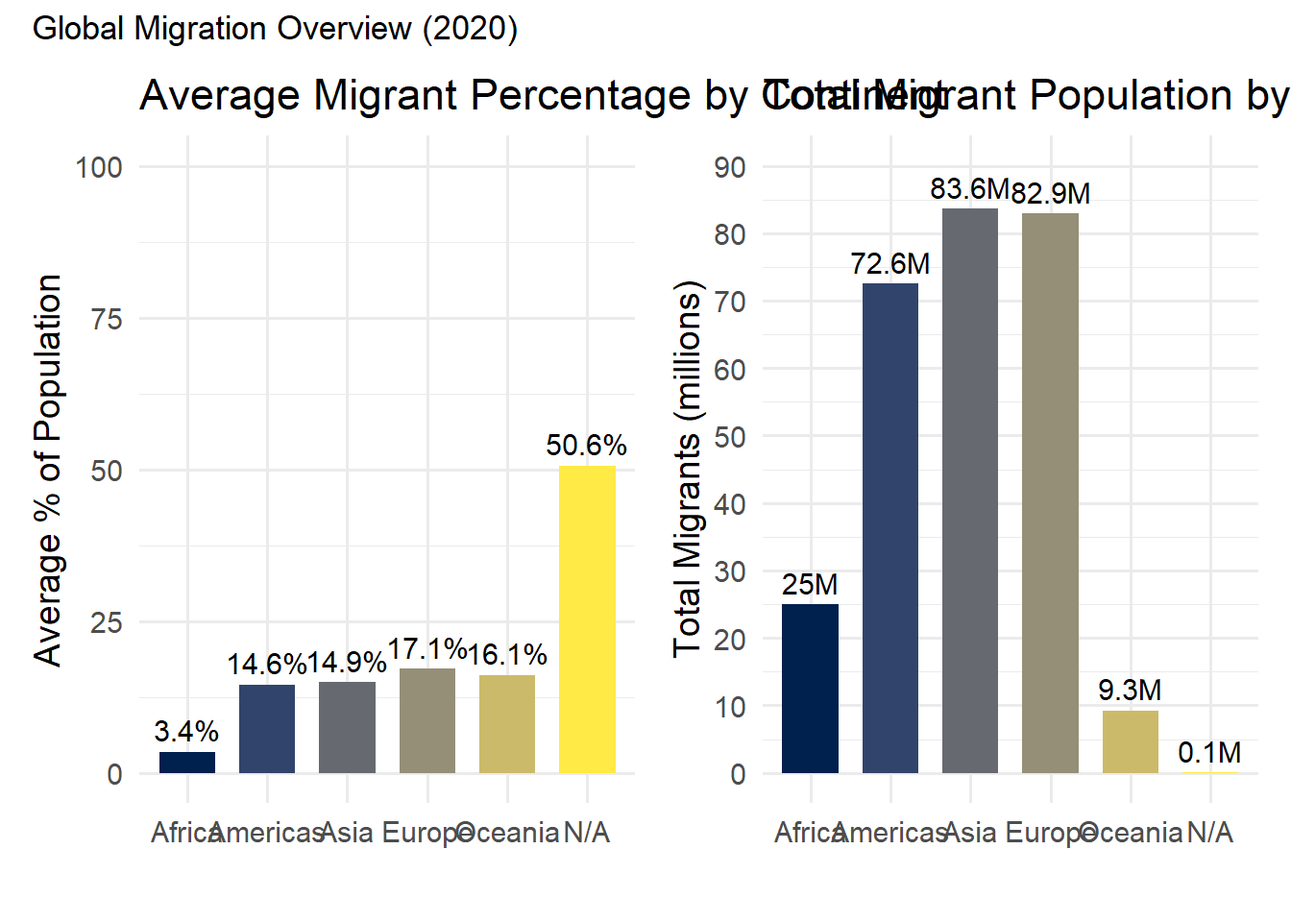
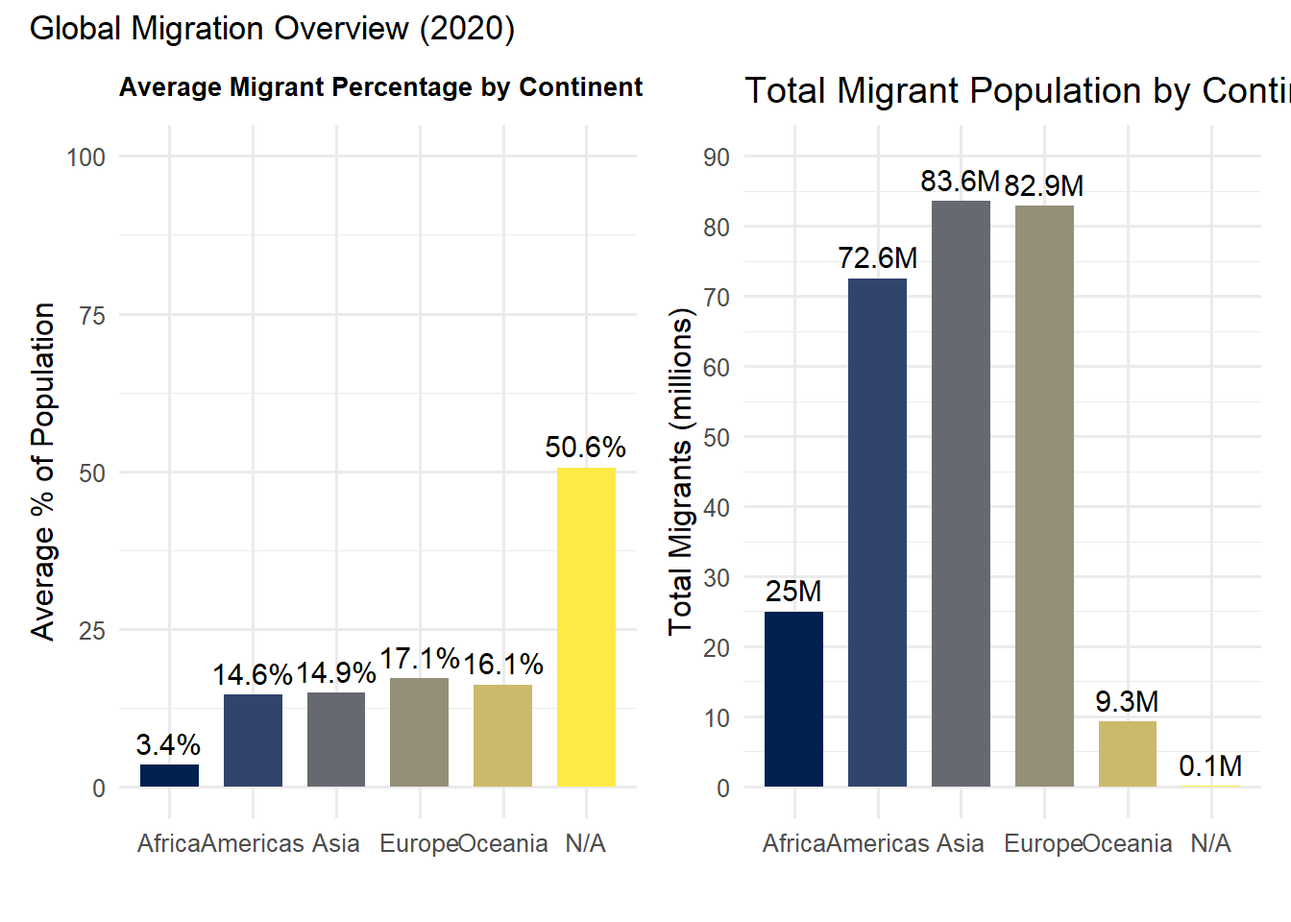
Changed formatting of some charts in assignment 4

diff --git a/October10.html b/October10.html
@@ -265,8 +265,8 @@ pre > code.sourceCode > span > a:first-child::before { text-decoration: underlin
 <p><strong>Chart 2 - Table with Embedded Charts</strong></p>
 <div class="cell">
 <div class="cell-output-display">
-<div class="datatables html-widget html-fill-item" id="htmlwidget-a9f10cb948549b26c1bb" style="width:100%;height:auto;"></div>
-<script type="application/json" data-for="htmlwidget-a9f10cb948549b26c1bb">{"x":{"filter":"none","vertical":false,"caption":"<caption>Table 1 — Migrant Population by Country (2020)<\/caption>","data":[["1","2","3","4","5","6","7","8","9","10","11","12","13","14","15","16","17","18","19","20","21","22","23","24","25","26","27","28","29","30","31","32","33","34","35","36","37","38","39","40","41","42","43","44","45","46","47","48","49","50","51","52","53","54","55","56","57","58","59","60","61","62","63","64","65","66","67","68","69","70","71","72","73","74","75","76","77","78","79","80","81","82","83","84","85","86","87","88","89","90","91","92","93","94","95","96","97","98","99","100","101","102","103","104","105","106","107","108","109","110","111","112","113","114","115","116","117","118","119","120","121","122","123","124","125","126","127","128","129","130","131","132","133","134","135","136","137","138","139","140","141","142","143","144","145","146","147","148","149","150","151","152","153","154","155","156","157","158","159","160","161","162","163","164","165","166","167","168","169","170","171","172","173","174","175","176","177","178","179","180","181","182","183","184","185","186","187","188","189","190","191","192","193","194","195","196","197","198","199","200","201","202","203","204","205","206","207","208","209","210","211","212","213","214"],["Afghanistan","Albania","Algeria","American Samoa","Andorra","Angola","Antigua and Barbuda","Argentina","Armenia","Aruba","Australia","Austria","Azerbaijan","Bahamas, The","Bahrain","Bangladesh","Barbados","Belarus","Belgium","Belize","Benin","Bermuda","Bhutan","Bolivia","Bosnia and Herzegovina","Botswana","Brazil","British Virgin Islands","Brunei Darussalam","Bulgaria","Burkina Faso","Burundi","Cabo Verde","Cambodia","Cameroon","Canada","Cayman Islands","Central African Republic","Chad","Channel Islands","Chile","China","Colombia","Comoros","Congo, Dem. Rep.","Congo, Rep.","Costa Rica","Cote d'Ivoire","Croatia","Cuba","Curacao","Cyprus","Czechia","Denmark","Djibouti","Dominica","Dominican Republic","Ecuador","Egypt, Arab Rep.","El Salvador","Equatorial Guinea","Eritrea","Estonia","Eswatini","Ethiopia","Faroe Islands","Fiji","Finland","France","French Polynesia","Gabon","Gambia, The","Georgia","Germany","Ghana","Gibraltar","Greece","Greenland","Grenada","Guam","Guatemala","Guinea","Guinea-Bissau","Guyana","Haiti","Honduras","Hong Kong SAR, China","Hungary","Iceland","India","Indonesia","Iran, Islamic Rep.","Iraq","Ireland","Isle of Man","Israel","Italy","Jamaica","Japan","Jordan","Kazakhstan","Kenya","Kiribati","Korea, Dem. People's Rep.","Korea, Rep.","Kuwait","Kyrgyz Republic","Lao PDR","Latvia","Lebanon","Lesotho","Liberia","Libya","Liechtenstein","Lithuania","Luxembourg","Macao SAR, China","Madagascar","Malawi","Malaysia","Maldives","Mali","Malta","Marshall Islands","Mauritania","Mauritius","Mexico","Micronesia, Fed. Sts.","Moldova","Monaco","Mongolia","Montenegro","Morocco","Mozambique","Myanmar","Namibia","Nauru","Nepal","Netherlands","New Caledonia","New Zealand","Nicaragua","Niger","Nigeria","North Macedonia","Northern Mariana Islands","Norway","Oman","Pakistan","Palau","Panama","Papua New Guinea","Paraguay","Peru","Philippines","Poland","Portugal","Qatar","Romania","Russian Federation","Rwanda","Samoa","San Marino","Sao Tome and Principe","Saudi Arabia","Senegal","Serbia","Seychelles","Sierra Leone","Singapore","Sint Maarten (Dutch part)","Slovak Republic","Slovenia","Solomon Islands","South Africa","South Sudan","Spain","Sri Lanka","St. Kitts and Nevis","St. Lucia","St. Martin (French part)","St. Vincent and the Grenadines","Sudan","Suriname","Sweden","Switzerland","Syrian Arab Republic","Tajikistan","Tanzania","Thailand","Timor-Leste","Togo","Tonga","Trinidad and Tobago","Tunisia","Turkiye","Turkmenistan","Turks and Caicos Islands","Tuvalu","Uganda","Ukraine","United Arab Emirates","United Kingdom","United States","Uruguay","Uzbekistan","Vanuatu","Venezuela, RB","Viet Nam","Virgin Islands (U.S.)","West Bank and Gaza","Yemen, Rep.","Zambia","Zimbabwe"],["Asia","Europe","Africa","Oceania","Europe","Africa","Americas","Americas","Asia","Americas","Oceania","Europe","Asia","Americas","Asia","Asia","Americas","Europe","Europe","Americas","Africa","Americas","Asia","Americas","Europe","Africa","Americas","Americas","Asia","Europe","Africa","Africa","Africa","Asia","Africa","Americas","Americas","Africa","Africa",null,"Americas","Asia","Americas","Africa","Africa","Africa","Americas","Africa","Europe","Americas","Americas","Asia","Europe","Europe","Africa","Americas","Americas","Americas","Africa","Americas","Africa","Africa","Europe","Africa","Africa","Europe","Oceania","Europe","Europe","Oceania","Africa","Africa","Asia","Europe","Africa","Europe","Europe","Americas","Americas","Oceania","Americas","Africa","Africa","Americas","Americas","Americas","Asia","Europe","Europe","Asia","Asia","Asia","Asia","Europe","Europe","Asia","Europe","Americas","Asia","Asia","Asia","Africa","Oceania","Asia","Asia","Asia","Asia","Asia","Europe","Asia","Africa","Africa","Africa","Europe","Europe","Europe","Asia","Africa","Africa","Asia","Asia","Africa","Europe","Oceania","Africa","Africa","Americas","Oceania","Europe","Europe","Asia","Europe","Africa","Africa","Asia","Africa","Oceania","Asia","Europe","Oceania","Oceania","Americas","Africa","Africa","Europe","Oceania","Europe","Asia","Asia","Oceania","Americas","Oceania","Americas","Americas","Asia","Europe","Europe","Asia","Europe","Europe","Africa","Oceania","Europe","Africa","Asia","Africa","Europe","Africa","Africa","Asia","Americas","Europe","Europe","Oceania","Africa","Africa","Europe","Asia","Americas","Americas","Americas","Americas","Africa","Americas","Europe","Europe","Asia","Asia","Africa","Asia","Asia","Africa","Oceania","Americas","Africa","Asia","Asia","Americas","Oceania","Africa","Europe","Asia","Europe","Americas","Americas","Asia","Oceania","Americas","Asia","Americas","Asia","Asia","Africa","Africa"],[144098,48810,250378,23608,45574,656434,29386,1912294,207139,53593,7604850,1781046,198894,63583,785983,2115408,34869,1067090,2046975,62043,394276,19739,53612,164121,36042,110268,1048866,22164,111959,184363,723989,344767,15788,79341,579209,8332892,29242,88546,547494,84087,1476240,1415116,1932807,12496,952871,387606,520729,2760255,528056,3024,57210,190366,680221,718856,119738,8284,603794,721560,602472,42767,230618,13934,199277,32858,875170,6812,14087,386052,8610719,30081,416651,215659,79368,15021300,476412,11190,1340456,5899,7213,80472,84311,121437,17945,31169,18884,39195,2962492,584567,65424,4929816,306702,2797235,365766,951686,43040,2068830,6223851,23629,3289042,4940142,1990268,1050147,3126,49549,1723389,3030731,199011,48731,239422,1586346,12060,87947,826537,25877,145184,298062,403490,35563,191362,3718696,70079,485829,114760,3298,182286,28893,1335154,2832,77291,26601,21345,70999,102358,338850,76446,109391,2201,487564,2425521,73141,1343900,42167,348056,1308568,131311,21843,852238,1766142,3276580,5088,313165,31068,169567,1184762,87212,738099,1001963,2182000,338734,7297611,513907,4021,5543,2139,13071258,274929,733091,13050,53746,2589107,28845,197161,277964,2520,2639076,882252,7146130,40254,7725,8338,null,4738,1379147,47801,2033902,2610189,868711,276031,426017,3015007,8399,279936,3742,78849,60145,6580295,194920,25748,239,1776038,4997387,7184000,10520870,50471028,108267,1162007,3257,1324193,200639,56753,272784,387113,187955,416141],[0.4,1.7,0.6,47.4,58.9,2,32,4.2,7.2,49.9,29.5,20,2,16.1,53,1.3,12.4,11.4,17.7,15.9,3,30.7,7,1.4,1.1,4.7,0.5,59.7,25,2.7,3.4,2.7,3.1,0.5,2.2,21.8,42.6,1.8,3.2,50.6,7.6,0.1,3.8,1.6,1,6.7,10.3,9.5,13.4,0,30.9,14.6,6.4,12.3,10.8,12.3,5.5,4.1,0.6,0.7,13.4,0.4,15,2.8,0.7,13,1.5,7,13.1,10.8,17.9,8.6,2.1,18,1.5,30.9,12.5,10.5,6.2,49.6,0.5,0.9,0.9,3.9,0.2,0.4,39.6,6,17.8,0.4,0.1,3.2,0.9,19.1,51.2,23.5,10.4,0.8,2.6,45.5,10.2,2,2.5,0.2,3.3,68.90000000000001,3,0.7,12.6,27.8,0.5,1.7,11.7,66.8,5.2,47.3,59.1,0.1,1,11,14,2.2,22.1,7.7,4,2.3,1.1,2.6,2.5,69.90000000000001,0.6,11.7,0.3,1.1,0.1,4,18.9,1.7,13.8,25.7,26.5,0.6,1.5,0.6,7,46,15.8,39.1,1.4,28.6,7.3,0.3,2.6,3.6,0.1,1.9,9.699999999999999,77.8,1.7,5,3.9,1.9,15.9,1,42.2,1.6,10.6,10.8,0.7,46.1,70.3,3.6,13.2,0.3,4.4,8.199999999999999,15,0.2,16.5,4.7,0,4.6,2.9,7.8,19.6,30.2,4.1,2.8,0.7,4.2,0.6,3.2,3.5,5.3,0.5,7.6,2.8,58,2.3,4,11.2,76,15.6,14.9,3.2,3.5,1.1,4.7,0.2,64.7,5.4,1.1,1,2.7],[39068979,2837849,44042091,49761,77380,33451132,91846,45191965,2961500,108587,25649248,8916864,10093121,395863,1472204,166298024,281698,9379952,11538604,390812,13070169,64382,770006,11816299,3299349,2365894,208660842,37135,447404,6550696,21478690,12617036,514679,16725474,26210558,38028638,68684,5026628,17224679,166235,19370624,1411100000,50629997,802163,95989998,5752791,5034320,28915449,3914206,11176354,154947,1302247,10697858,5831404,1105188,67573,11008300,17546065,109315124,6234673,1716468,3291271,1329522,1192729,118917671,52567,914963,5529543,67601110,279209,2322539,2515733,3722716,83160871,31887809,36173,10698599,56367,116341,162158,17357325,13371183,2013255,807481,11243848,10119640,7481000,9670419,366463,1402617695,274814866,87723443,42116605,5039747,84064,9215100,59438851,2830739,126261000,10865228,19482117,52217334,126099,26136312,51836239,4400267,6726596,7346533,1900449,5702398,2235727,5149463,7045399,38901,2810369,630419,685400,28953556,19533888,33889558,502118,21713836,515490,42706,4600131,1266014,126799054,110916,2635130,38050,3327204,626590,36584208,30783688,53016522,2728762,11643,28966574,17441500,284176,5090200,6565267,23717613,213996181,1856124,47528,5379475,4522497,235001746,17792,4293261,9815746,6603739,32838579,112081264,37515748,10297081,2794148,19265250,145245148,13065837,211944,34770,217435,31552510,16789219,6899126,98462,7912558,5685807,41008,5458827,2102419,744498,60562381,10698467,47359424,21919000,46870,178250,31786,103526,46789231,612317,10353442,8638167,21049429,9749310,60972798,71641484,1326053,8669720,105704,1366725,11974057,83384680,6949912,44386,10399,44457152,44680014,9401038,66744000,331577720,3398968,33586372,298858,28444077,98079191,106290,4803269,36134863,19059395,15526888]],"container":"<table class=\"cell-border stripe hover\">\n  <thead>\n    <tr>\n      <th> <\/th>\n      <th>Country<\/th>\n      <th>Continent<\/th>\n      <th>Total Migrants<\/th>\n      <th>% of Population Migrants<\/th>\n      <th>Total Population (2020)<\/th>\n    <\/tr>\n  <\/thead>\n<\/table>","options":{"pageLength":20,"scrollX":true,"columnDefs":[{"className":"dt-right","targets":[3,4,5]},{"orderable":false,"targets":0},{"name":" ","targets":0},{"name":"Country","targets":1},{"name":"Continent","targets":2},{"name":"Total Migrants","targets":3},{"name":"% of Population Migrants","targets":4},{"name":"Total Population (2020)","targets":5}],"order":[],"autoWidth":false,"orderClasses":false,"lengthMenu":[10,20,25,50,100],"rowCallback":"function(row, data, displayNum, displayIndex, dataIndex) {\nvar value=data[1]; $(this.api().cell(row, 1).node()).css({'color':'black','background-color':'white'});\nvar value=data[2]; $(this.api().cell(row, 2).node()).css({'color':'black','background-color':'white'});\nvar value=data[3]; $(this.api().cell(row, 3).node()).css({'color':'black','background-color':'white'});\nvar value=data[4]; $(this.api().cell(row, 4).node()).css({'color':'black','background-color':'white'});\nvar value=data[5]; $(this.api().cell(row, 5).node()).css({'color':'black','background-color':'white'});\n}"}},"evals":["options.rowCallback"],"jsHooks":[]}</script>
+<div class="datatables html-widget html-fill-item" id="htmlwidget-7cb7c02c14ae0e53a3b0" style="width:100%;height:auto;"></div>
+<script type="application/json" data-for="htmlwidget-7cb7c02c14ae0e53a3b0">{"x":{"filter":"none","vertical":false,"caption":"<caption>Table 1 — Migrant Population by Country (2020)<\/caption>","data":[["1","2","3","4","5","6","7","8","9","10","11","12","13","14","15","16","17","18","19","20","21","22","23","24","25","26","27","28","29","30","31","32","33","34","35","36","37","38","39","40","41","42","43","44","45","46","47","48","49","50","51","52","53","54","55","56","57","58","59","60","61","62","63","64","65","66","67","68","69","70","71","72","73","74","75","76","77","78","79","80","81","82","83","84","85","86","87","88","89","90","91","92","93","94","95","96","97","98","99","100","101","102","103","104","105","106","107","108","109","110","111","112","113","114","115","116","117","118","119","120","121","122","123","124","125","126","127","128","129","130","131","132","133","134","135","136","137","138","139","140","141","142","143","144","145","146","147","148","149","150","151","152","153","154","155","156","157","158","159","160","161","162","163","164","165","166","167","168","169","170","171","172","173","174","175","176","177","178","179","180","181","182","183","184","185","186","187","188","189","190","191","192","193","194","195","196","197","198","199","200","201","202","203","204","205","206","207","208","209","210","211","212","213","214"],["Afghanistan","Albania","Algeria","American Samoa","Andorra","Angola","Antigua and Barbuda","Argentina","Armenia","Aruba","Australia","Austria","Azerbaijan","Bahamas, The","Bahrain","Bangladesh","Barbados","Belarus","Belgium","Belize","Benin","Bermuda","Bhutan","Bolivia","Bosnia and Herzegovina","Botswana","Brazil","British Virgin Islands","Brunei Darussalam","Bulgaria","Burkina Faso","Burundi","Cabo Verde","Cambodia","Cameroon","Canada","Cayman Islands","Central African Republic","Chad","Channel Islands","Chile","China","Colombia","Comoros","Congo, Dem. Rep.","Congo, Rep.","Costa Rica","Cote d'Ivoire","Croatia","Cuba","Curacao","Cyprus","Czechia","Denmark","Djibouti","Dominica","Dominican Republic","Ecuador","Egypt, Arab Rep.","El Salvador","Equatorial Guinea","Eritrea","Estonia","Eswatini","Ethiopia","Faroe Islands","Fiji","Finland","France","French Polynesia","Gabon","Gambia, The","Georgia","Germany","Ghana","Gibraltar","Greece","Greenland","Grenada","Guam","Guatemala","Guinea","Guinea-Bissau","Guyana","Haiti","Honduras","Hong Kong SAR, China","Hungary","Iceland","India","Indonesia","Iran, Islamic Rep.","Iraq","Ireland","Isle of Man","Israel","Italy","Jamaica","Japan","Jordan","Kazakhstan","Kenya","Kiribati","Korea, Dem. People's Rep.","Korea, Rep.","Kuwait","Kyrgyz Republic","Lao PDR","Latvia","Lebanon","Lesotho","Liberia","Libya","Liechtenstein","Lithuania","Luxembourg","Macao SAR, China","Madagascar","Malawi","Malaysia","Maldives","Mali","Malta","Marshall Islands","Mauritania","Mauritius","Mexico","Micronesia, Fed. Sts.","Moldova","Monaco","Mongolia","Montenegro","Morocco","Mozambique","Myanmar","Namibia","Nauru","Nepal","Netherlands","New Caledonia","New Zealand","Nicaragua","Niger","Nigeria","North Macedonia","Northern Mariana Islands","Norway","Oman","Pakistan","Palau","Panama","Papua New Guinea","Paraguay","Peru","Philippines","Poland","Portugal","Qatar","Romania","Russian Federation","Rwanda","Samoa","San Marino","Sao Tome and Principe","Saudi Arabia","Senegal","Serbia","Seychelles","Sierra Leone","Singapore","Sint Maarten (Dutch part)","Slovak Republic","Slovenia","Solomon Islands","South Africa","South Sudan","Spain","Sri Lanka","St. Kitts and Nevis","St. Lucia","St. Martin (French part)","St. Vincent and the Grenadines","Sudan","Suriname","Sweden","Switzerland","Syrian Arab Republic","Tajikistan","Tanzania","Thailand","Timor-Leste","Togo","Tonga","Trinidad and Tobago","Tunisia","Turkiye","Turkmenistan","Turks and Caicos Islands","Tuvalu","Uganda","Ukraine","United Arab Emirates","United Kingdom","United States","Uruguay","Uzbekistan","Vanuatu","Venezuela, RB","Viet Nam","Virgin Islands (U.S.)","West Bank and Gaza","Yemen, Rep.","Zambia","Zimbabwe"],["Asia","Europe","Africa","Oceania","Europe","Africa","Americas","Americas","Asia","Americas","Oceania","Europe","Asia","Americas","Asia","Asia","Americas","Europe","Europe","Americas","Africa","Americas","Asia","Americas","Europe","Africa","Americas","Americas","Asia","Europe","Africa","Africa","Africa","Asia","Africa","Americas","Americas","Africa","Africa",null,"Americas","Asia","Americas","Africa","Africa","Africa","Americas","Africa","Europe","Americas","Americas","Asia","Europe","Europe","Africa","Americas","Americas","Americas","Africa","Americas","Africa","Africa","Europe","Africa","Africa","Europe","Oceania","Europe","Europe","Oceania","Africa","Africa","Asia","Europe","Africa","Europe","Europe","Americas","Americas","Oceania","Americas","Africa","Africa","Americas","Americas","Americas","Asia","Europe","Europe","Asia","Asia","Asia","Asia","Europe","Europe","Asia","Europe","Americas","Asia","Asia","Asia","Africa","Oceania","Asia","Asia","Asia","Asia","Asia","Europe","Asia","Africa","Africa","Africa","Europe","Europe","Europe","Asia","Africa","Africa","Asia","Asia","Africa","Europe","Oceania","Africa","Africa","Americas","Oceania","Europe","Europe","Asia","Europe","Africa","Africa","Asia","Africa","Oceania","Asia","Europe","Oceania","Oceania","Americas","Africa","Africa","Europe","Oceania","Europe","Asia","Asia","Oceania","Americas","Oceania","Americas","Americas","Asia","Europe","Europe","Asia","Europe","Europe","Africa","Oceania","Europe","Africa","Asia","Africa","Europe","Africa","Africa","Asia","Americas","Europe","Europe","Oceania","Africa","Africa","Europe","Asia","Americas","Americas","Americas","Americas","Africa","Americas","Europe","Europe","Asia","Asia","Africa","Asia","Asia","Africa","Oceania","Americas","Africa","Asia","Asia","Americas","Oceania","Africa","Europe","Asia","Europe","Americas","Americas","Asia","Oceania","Americas","Asia","Americas","Asia","Asia","Africa","Africa"],[144098,48810,250378,23608,45574,656434,29386,1912294,207139,53593,7604850,1781046,198894,63583,785983,2115408,34869,1067090,2046975,62043,394276,19739,53612,164121,36042,110268,1048866,22164,111959,184363,723989,344767,15788,79341,579209,8332892,29242,88546,547494,84087,1476240,1415116,1932807,12496,952871,387606,520729,2760255,528056,3024,57210,190366,680221,718856,119738,8284,603794,721560,602472,42767,230618,13934,199277,32858,875170,6812,14087,386052,8610719,30081,416651,215659,79368,15021300,476412,11190,1340456,5899,7213,80472,84311,121437,17945,31169,18884,39195,2962492,584567,65424,4929816,306702,2797235,365766,951686,43040,2068830,6223851,23629,3289042,4940142,1990268,1050147,3126,49549,1723389,3030731,199011,48731,239422,1586346,12060,87947,826537,25877,145184,298062,403490,35563,191362,3718696,70079,485829,114760,3298,182286,28893,1335154,2832,77291,26601,21345,70999,102358,338850,76446,109391,2201,487564,2425521,73141,1343900,42167,348056,1308568,131311,21843,852238,1766142,3276580,5088,313165,31068,169567,1184762,87212,738099,1001963,2182000,338734,7297611,513907,4021,5543,2139,13071258,274929,733091,13050,53746,2589107,28845,197161,277964,2520,2639076,882252,7146130,40254,7725,8338,null,4738,1379147,47801,2033902,2610189,868711,276031,426017,3015007,8399,279936,3742,78849,60145,6580295,194920,25748,239,1776038,4997387,7184000,10520870,50471028,108267,1162007,3257,1324193,200639,56753,272784,387113,187955,416141],[0.4,1.7,0.6,47.4,58.9,2,32,4.2,7.2,49.9,29.5,20,2,16.1,53,1.3,12.4,11.4,17.7,15.9,3,30.7,7,1.4,1.1,4.7,0.5,59.7,25,2.7,3.4,2.7,3.1,0.5,2.2,21.8,42.6,1.8,3.2,50.6,7.6,0.1,3.8,1.6,1,6.7,10.3,9.5,13.4,0,30.9,14.6,6.4,12.3,10.8,12.3,5.5,4.1,0.6,0.7,13.4,0.4,15,2.8,0.7,13,1.5,7,13.1,10.8,17.9,8.6,2.1,18,1.5,30.9,12.5,10.5,6.2,49.6,0.5,0.9,0.9,3.9,0.2,0.4,39.6,6,17.8,0.4,0.1,3.2,0.9,19.1,51.2,23.5,10.4,0.8,2.6,45.5,10.2,2,2.5,0.2,3.3,68.90000000000001,3,0.7,12.6,27.8,0.5,1.7,11.7,66.8,5.2,47.3,59.1,0.1,1,11,14,2.2,22.1,7.7,4,2.3,1.1,2.6,2.5,69.90000000000001,0.6,11.7,0.3,1.1,0.1,4,18.9,1.7,13.8,25.7,26.5,0.6,1.5,0.6,7,46,15.8,39.1,1.4,28.6,7.3,0.3,2.6,3.6,0.1,1.9,9.699999999999999,77.8,1.7,5,3.9,1.9,15.9,1,42.2,1.6,10.6,10.8,0.7,46.1,70.3,3.6,13.2,0.3,4.4,8.199999999999999,15,0.2,16.5,4.7,0,4.6,2.9,7.8,19.6,30.2,4.1,2.8,0.7,4.2,0.6,3.2,3.5,5.3,0.5,7.6,2.8,58,2.3,4,11.2,76,15.6,14.9,3.2,3.5,1.1,4.7,0.2,64.7,5.4,1.1,1,2.7],[39068979,2837849,44042091,49761,77380,33451132,91846,45191965,2961500,108587,25649248,8916864,10093121,395863,1472204,166298024,281698,9379952,11538604,390812,13070169,64382,770006,11816299,3299349,2365894,208660842,37135,447404,6550696,21478690,12617036,514679,16725474,26210558,38028638,68684,5026628,17224679,166235,19370624,1411100000,50629997,802163,95989998,5752791,5034320,28915449,3914206,11176354,154947,1302247,10697858,5831404,1105188,67573,11008300,17546065,109315124,6234673,1716468,3291271,1329522,1192729,118917671,52567,914963,5529543,67601110,279209,2322539,2515733,3722716,83160871,31887809,36173,10698599,56367,116341,162158,17357325,13371183,2013255,807481,11243848,10119640,7481000,9670419,366463,1402617695,274814866,87723443,42116605,5039747,84064,9215100,59438851,2830739,126261000,10865228,19482117,52217334,126099,26136312,51836239,4400267,6726596,7346533,1900449,5702398,2235727,5149463,7045399,38901,2810369,630419,685400,28953556,19533888,33889558,502118,21713836,515490,42706,4600131,1266014,126799054,110916,2635130,38050,3327204,626590,36584208,30783688,53016522,2728762,11643,28966574,17441500,284176,5090200,6565267,23717613,213996181,1856124,47528,5379475,4522497,235001746,17792,4293261,9815746,6603739,32838579,112081264,37515748,10297081,2794148,19265250,145245148,13065837,211944,34770,217435,31552510,16789219,6899126,98462,7912558,5685807,41008,5458827,2102419,744498,60562381,10698467,47359424,21919000,46870,178250,31786,103526,46789231,612317,10353442,8638167,21049429,9749310,60972798,71641484,1326053,8669720,105704,1366725,11974057,83384680,6949912,44386,10399,44457152,44680014,9401038,66744000,331577720,3398968,33586372,298858,28444077,98079191,106290,4803269,36134863,19059395,15526888]],"container":"<table class=\"cell-border stripe hover\">\n  <thead>\n    <tr>\n      <th> <\/th>\n      <th>Country<\/th>\n      <th>Continent<\/th>\n      <th>Total Migrants<\/th>\n      <th>% of Population Migrants<\/th>\n      <th>Total Population (2020)<\/th>\n    <\/tr>\n  <\/thead>\n<\/table>","options":{"pageLength":20,"scrollX":true,"columnDefs":[{"className":"dt-right","targets":[3,4,5]},{"orderable":false,"targets":0},{"name":" ","targets":0},{"name":"Country","targets":1},{"name":"Continent","targets":2},{"name":"Total Migrants","targets":3},{"name":"% of Population Migrants","targets":4},{"name":"Total Population (2020)","targets":5}],"order":[],"autoWidth":false,"orderClasses":false,"lengthMenu":[10,20,25,50,100],"rowCallback":"function(row, data, displayNum, displayIndex, dataIndex) {\nvar value=data[1]; $(this.api().cell(row, 1).node()).css({'color':'black','background-color':'white'});\nvar value=data[2]; $(this.api().cell(row, 2).node()).css({'color':'black','background-color':'white'});\nvar value=data[3]; $(this.api().cell(row, 3).node()).css({'color':'black','background-color':'white'});\nvar value=data[4]; $(this.api().cell(row, 4).node()).css({'color':'black','background-color':'white'});\nvar value=data[5]; $(this.api().cell(row, 5).node()).css({'color':'black','background-color':'white'});\n}"}},"evals":["options.rowCallback"],"jsHooks":[]}</script>
 </div>
 </div>
 <p><strong>Chart 3 - Bar Charts</strong></p>
@@ -371,28 +371,31 @@ pre > code.sourceCode > span > a:first-child::before { text-decoration: underlin
 <span id="cb8-27"><a href="#cb8-27" aria-hidden="true" tabindex="-1"></a>    <span class="at">y =</span> <span class="st">"Average % of Population"</span></span>
 <span id="cb8-28"><a href="#cb8-28" aria-hidden="true" tabindex="-1"></a>  ) <span class="sc">+</span></span>
 <span id="cb8-29"><a href="#cb8-29" aria-hidden="true" tabindex="-1"></a>  <span class="fu">ylim</span>(<span class="dv">0</span>, <span class="dv">100</span>) <span class="sc">+</span></span>
-<span id="cb8-30"><a href="#cb8-30" aria-hidden="true" tabindex="-1"></a>  <span class="fu">theme_minimal</span>(<span class="at">base_size =</span> <span class="dv">14</span>) <span class="sc">+</span></span>
-<span id="cb8-31"><a href="#cb8-31" aria-hidden="true" tabindex="-1"></a>  <span class="fu">theme</span>(<span class="at">legend.position =</span> <span class="st">"none"</span>)</span>
-<span id="cb8-32"><a href="#cb8-32" aria-hidden="true" tabindex="-1"></a></span>
-<span id="cb8-33"><a href="#cb8-33" aria-hidden="true" tabindex="-1"></a></span>
-<span id="cb8-34"><a href="#cb8-34" aria-hidden="true" tabindex="-1"></a></span>
-<span id="cb8-35"><a href="#cb8-35" aria-hidden="true" tabindex="-1"></a><span class="co">#Graph 2 Total Migrants</span></span>
-<span id="cb8-36"><a href="#cb8-36" aria-hidden="true" tabindex="-1"></a>p2 <span class="ot">&lt;-</span> <span class="fu">ggplot</span>(continent_summary, <span class="fu">aes</span>(<span class="at">x =</span> continent, <span class="at">y =</span> total_migrants <span class="sc">/</span> <span class="fl">1e6</span>, <span class="at">fill =</span> continent)) <span class="sc">+</span></span>
-<span id="cb8-37"><a href="#cb8-37" aria-hidden="true" tabindex="-1"></a>  <span class="fu">geom_col</span>(<span class="at">width =</span> <span class="fl">0.7</span>) <span class="sc">+</span></span>
-<span id="cb8-38"><a href="#cb8-38" aria-hidden="true" tabindex="-1"></a>  <span class="fu">geom_text</span>(<span class="fu">aes</span>(<span class="at">label =</span> <span class="fu">paste0</span>(<span class="fu">round</span>(total_migrants <span class="sc">/</span> <span class="fl">1e6</span>, <span class="dv">1</span>), <span class="st">"M"</span>)),</span>
-<span id="cb8-39"><a href="#cb8-39" aria-hidden="true" tabindex="-1"></a>            <span class="at">vjust =</span> <span class="sc">-</span><span class="fl">0.5</span>, <span class="at">size =</span> <span class="dv">4</span>) <span class="sc">+</span></span>
-<span id="cb8-40"><a href="#cb8-40" aria-hidden="true" tabindex="-1"></a>  <span class="fu">scale_fill_viridis</span>(<span class="at">discrete =</span> <span class="cn">TRUE</span>, <span class="at">option =</span> <span class="st">"E"</span>) <span class="sc">+</span></span>
-<span id="cb8-41"><a href="#cb8-41" aria-hidden="true" tabindex="-1"></a>  <span class="fu">scale_y_continuous</span>(<span class="at">limits =</span> <span class="fu">c</span>(<span class="dv">0</span>, <span class="dv">90</span>), <span class="at">breaks =</span> <span class="fu">seq</span>(<span class="dv">0</span>, <span class="dv">90</span>, <span class="dv">10</span>)) <span class="sc">+</span></span>
-<span id="cb8-42"><a href="#cb8-42" aria-hidden="true" tabindex="-1"></a>  <span class="fu">labs</span>(</span>
-<span id="cb8-43"><a href="#cb8-43" aria-hidden="true" tabindex="-1"></a>    <span class="at">title =</span> <span class="st">"Total Migrant Population by Continent"</span>,</span>
-<span id="cb8-44"><a href="#cb8-44" aria-hidden="true" tabindex="-1"></a>    <span class="at">x =</span> <span class="st">""</span>,</span>
-<span id="cb8-45"><a href="#cb8-45" aria-hidden="true" tabindex="-1"></a>    <span class="at">y =</span> <span class="st">"Total Migrants (millions)"</span></span>
-<span id="cb8-46"><a href="#cb8-46" aria-hidden="true" tabindex="-1"></a>  ) <span class="sc">+</span></span>
-<span id="cb8-47"><a href="#cb8-47" aria-hidden="true" tabindex="-1"></a>  <span class="fu">theme_minimal</span>(<span class="at">base_size =</span> <span class="dv">14</span>) <span class="sc">+</span></span>
-<span id="cb8-48"><a href="#cb8-48" aria-hidden="true" tabindex="-1"></a>  <span class="fu">theme</span>(<span class="at">legend.position =</span> <span class="st">"none"</span>)</span>
-<span id="cb8-49"><a href="#cb8-49" aria-hidden="true" tabindex="-1"></a></span>
-<span id="cb8-50"><a href="#cb8-50" aria-hidden="true" tabindex="-1"></a><span class="co">#Final Product</span></span>
-<span id="cb8-51"><a href="#cb8-51" aria-hidden="true" tabindex="-1"></a><span class="fu">print</span>((p1 <span class="sc">+</span> p2) <span class="sc">+</span> <span class="fu">plot_annotation</span>(<span class="at">title =</span> <span class="st">"Global Migration Overview (2020)"</span>))</span></code><button title="Copy to Clipboard" class="code-copy-button"><i class="bi"></i></button></pre></div>
+<span id="cb8-30"><a href="#cb8-30" aria-hidden="true" tabindex="-1"></a>  <span class="fu">theme_minimal</span>(<span class="at">base_size =</span> <span class="dv">12</span>) <span class="sc">+</span></span>
+<span id="cb8-31"><a href="#cb8-31" aria-hidden="true" tabindex="-1"></a>  <span class="fu">theme</span>(</span>
+<span id="cb8-32"><a href="#cb8-32" aria-hidden="true" tabindex="-1"></a>        <span class="at">legend.position =</span> <span class="st">"none"</span>,</span>
+<span id="cb8-33"><a href="#cb8-33" aria-hidden="true" tabindex="-1"></a>        <span class="at">plot.title =</span> <span class="fu">element_text</span>(<span class="at">size =</span> <span class="dv">10</span>, <span class="at">face =</span> <span class="st">"bold"</span>)</span>
+<span id="cb8-34"><a href="#cb8-34" aria-hidden="true" tabindex="-1"></a>        )</span>
+<span id="cb8-35"><a href="#cb8-35" aria-hidden="true" tabindex="-1"></a></span>
+<span id="cb8-36"><a href="#cb8-36" aria-hidden="true" tabindex="-1"></a></span>
+<span id="cb8-37"><a href="#cb8-37" aria-hidden="true" tabindex="-1"></a></span>
+<span id="cb8-38"><a href="#cb8-38" aria-hidden="true" tabindex="-1"></a><span class="co">#Graph 2 Total Migrants</span></span>
+<span id="cb8-39"><a href="#cb8-39" aria-hidden="true" tabindex="-1"></a>p2 <span class="ot">&lt;-</span> <span class="fu">ggplot</span>(continent_summary, <span class="fu">aes</span>(<span class="at">x =</span> continent, <span class="at">y =</span> total_migrants <span class="sc">/</span> <span class="fl">1e6</span>, <span class="at">fill =</span> continent)) <span class="sc">+</span></span>
+<span id="cb8-40"><a href="#cb8-40" aria-hidden="true" tabindex="-1"></a>  <span class="fu">geom_col</span>(<span class="at">width =</span> <span class="fl">0.7</span>) <span class="sc">+</span></span>
+<span id="cb8-41"><a href="#cb8-41" aria-hidden="true" tabindex="-1"></a>  <span class="fu">geom_text</span>(<span class="fu">aes</span>(<span class="at">label =</span> <span class="fu">paste0</span>(<span class="fu">round</span>(total_migrants <span class="sc">/</span> <span class="fl">1e6</span>, <span class="dv">1</span>), <span class="st">"M"</span>)),</span>
+<span id="cb8-42"><a href="#cb8-42" aria-hidden="true" tabindex="-1"></a>            <span class="at">vjust =</span> <span class="sc">-</span><span class="fl">0.5</span>, <span class="at">size =</span> <span class="dv">4</span>) <span class="sc">+</span></span>
+<span id="cb8-43"><a href="#cb8-43" aria-hidden="true" tabindex="-1"></a>  <span class="fu">scale_fill_viridis</span>(<span class="at">discrete =</span> <span class="cn">TRUE</span>, <span class="at">option =</span> <span class="st">"E"</span>) <span class="sc">+</span></span>
+<span id="cb8-44"><a href="#cb8-44" aria-hidden="true" tabindex="-1"></a>  <span class="fu">scale_y_continuous</span>(<span class="at">limits =</span> <span class="fu">c</span>(<span class="dv">0</span>, <span class="dv">90</span>), <span class="at">breaks =</span> <span class="fu">seq</span>(<span class="dv">0</span>, <span class="dv">90</span>, <span class="dv">10</span>)) <span class="sc">+</span></span>
+<span id="cb8-45"><a href="#cb8-45" aria-hidden="true" tabindex="-1"></a>  <span class="fu">labs</span>(</span>
+<span id="cb8-46"><a href="#cb8-46" aria-hidden="true" tabindex="-1"></a>    <span class="at">title =</span> <span class="st">"Total Migrant Population by Continent"</span>,</span>
+<span id="cb8-47"><a href="#cb8-47" aria-hidden="true" tabindex="-1"></a>    <span class="at">x =</span> <span class="st">""</span>,</span>
+<span id="cb8-48"><a href="#cb8-48" aria-hidden="true" tabindex="-1"></a>    <span class="at">y =</span> <span class="st">"Total Migrants (millions)"</span></span>
+<span id="cb8-49"><a href="#cb8-49" aria-hidden="true" tabindex="-1"></a>  ) <span class="sc">+</span></span>
+<span id="cb8-50"><a href="#cb8-50" aria-hidden="true" tabindex="-1"></a>  <span class="fu">theme_minimal</span>(<span class="at">base_size =</span> <span class="dv">12</span>) <span class="sc">+</span></span>
+<span id="cb8-51"><a href="#cb8-51" aria-hidden="true" tabindex="-1"></a>  <span class="fu">theme</span>(<span class="at">legend.position =</span> <span class="st">"none"</span>)</span>
+<span id="cb8-52"><a href="#cb8-52" aria-hidden="true" tabindex="-1"></a></span>
+<span id="cb8-53"><a href="#cb8-53" aria-hidden="true" tabindex="-1"></a><span class="co">#Final Product</span></span>
+<span id="cb8-54"><a href="#cb8-54" aria-hidden="true" tabindex="-1"></a><span class="fu">print</span>((p1 <span class="sc">+</span> p2) <span class="sc">+</span> <span class="fu">plot_annotation</span>(<span class="at">title =</span> <span class="st">"Global Migration Overview (2020)"</span>))</span></code><button title="Copy to Clipboard" class="code-copy-button"><i class="bi"></i></button></pre></div>
 <div class="cell-output-display">
 <div>
 <figure class="figure">
